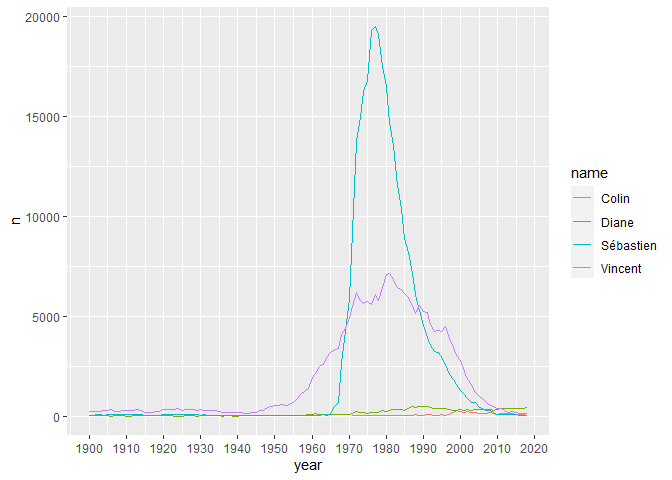
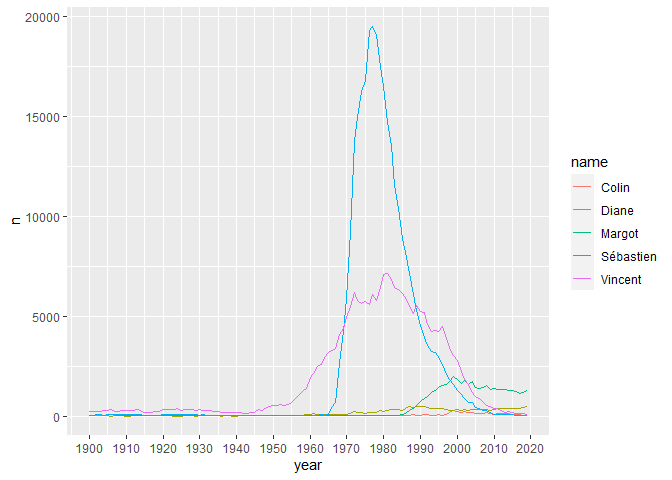
update docs

diff --git a/README.md b/README.md
@@ -4,7 +4,7 @@
 # prenoms
 
 First names given to babies in metropolitan France between 1900 and
-2018.
+2019.
 
     devtools::install_github( "ThinkR-open/prenoms" )
     library("prenoms")
@@ -12,7 +12,8 @@ First names given to babies in metropolitan France between 1900 and
 For example, names from current [ThinkR](https://thinkr.fr) staff
 [Colin](https://github.com/colinfay),
 [Diane](https://github.com/DianeBeldame),
-[Sébastien](https://github.com/statnmap), Cervan &
+[Sébastien](https://github.com/statnmap),
+[Cervan](https://github.com/Cervangirard) &
 [Vincent](https://github.com/VincentGuyader) through time.
 
 ``` r
@@ -26,6 +27,7 @@ data(prenoms)
          name == "Sébastien"  & sex == "M" |
          name == "Colin"  & sex == "M" |
          name == "Cervan"  & sex == "M" |
+         name == "Margot"  & sex == "F" |
          name == "Vincent" & sex == "M"
      ) %>%
      group_by(name, year, sex) %>%
